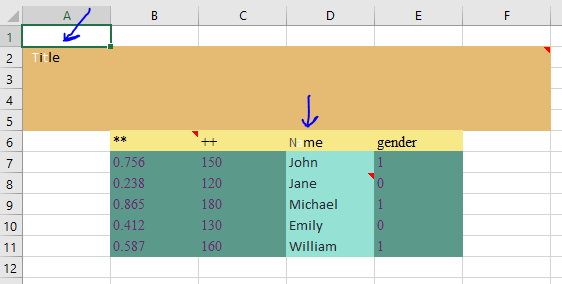
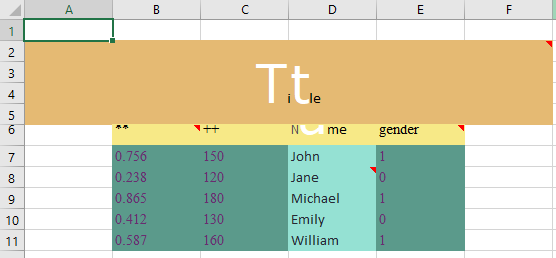
add new image

Changed region(s): [[0.0, 0.0, 1.0, 1.0]]

diff --git a/src/dataset/example.js b/src/dataset/example.js
@@ -338,6 +338,177 @@ Header should start with ${textDataC0.toUpperCase()}`,
     ...generateData()
   }
 })()
+export const ex15 = (() => {
+  function generateData() {
+    const t = { c4: '00ADB5', c2: '393E46' },
+      n = { alignment: { horizontal: 'left', vertical: 'center' } },
+      a = { fg: t.c2, fontFamily: 'Times New Roman', fontColor: '6A2C70', ...n },
+      l = { fg: t.c4, fontFamily: 'Times New Roman', fontColor: '#000000' }
+    return {
+      imageFullName: 'ex16.PNG',
+      colorPalette: t,
+      url: 'https://colorhunt.co/palette/f9ed69f08a5db83b5e6a2c70',
+      data: {
+        addDefaultTitleStyle: !0,
+        creator: 'mr',
+        styles: {
+          col2: {
+            fontColor: '#F9ED69'
+          },
+          col1: {
+            fontColor: '#FF2E63'
+          },
+          title: {
+            size: 48,
+            fg: 'F9ED69',
+            fontColor: '6A2C70',
+            alignment: { horizontal: 'center', vertical: 'center' }
+          },
+          t2: { fontColor: 'F08A5D' },
+          t1: { fontColor: '555555' },
+          'c0<0.3': { fg: 'DCD6F7', fontColor: '424874s', ...n },
+          male: { fg: '95E1D3', fontColor: '252A34', ...n },
+          female: { fg: 'F38181', fontColor: '252A34', ...n },
+          rowStyle: { ...a },
+          headerStyle: { ...l }
+        },
+        sheet: [
+          {
+            useSplitBaseOnMatch: true,
+            shiftTop: 1,
+            shiftLeft: 1,
+            title: {
+              comment: 'This is comment on table',
+              shiftTop: 1,
+              shiftLeft: -1,
+              consommeRow: 4,
+              consommeCol: 6,
+              multiStyleValue: {
+                '+': 't1',
+                '.': 't1',
+                '|': 't1',
+                '\\': 't1',
+                reg: [{ reg: /t/gi, styleId: 't2' }]
+              },
+              styleId: 'title',
+              text: 'Title 1'
+            },
+            multiStyleConditin: function (data, object, headerKey, rowIndex, colIndex, fromHeader) {
+              if (fromHeader) {
+                let charList = data.text.match(/./g)
+                let result = charList.reduce(
+                  (res, curr, index) => {
+                    try {
+                      new RegExp(curr)
+                    } catch (error) {
+                      curr = '\\' + curr
+                    }
+                    if (index % 2 == 0) {
+                      res.result.reg.push({
+                        reg: new RegExp('[' + curr + ']'),
+                        styleId: 'col1'
+                      })
+                      return res
+                    } else {
+                      res.result.reg.push({
+                        reg: new RegExp('[' + curr + ']'),
+                        styleId: 'col2'
+                      })
+                      return res
+                    }
+                  },
+                  { curr: '', result: { reg: [] } }
+                )
+                return result.result
+              } else {
+                let charList = data.match(/./g)
+                let result = charList.reduce(
+                  (res, curr, index) => {
+                    try {
+                      new RegExp(curr)
+                    } catch (error) {
+                      curr = '\\' + curr
+                    }
+                    if (index % 2 == 0) {
+                      res.result.reg.push({
+                        reg: new RegExp('[' + curr + ']'),
+                        styleId: 'col1'
+                      })
+                      return res
+                    } else {
+                      res.result.reg.push({
+                        reg: new RegExp('[' + curr + ']'),
+                        styleId: 'col2'
+                      })
+                      return res
+                    }
+                  },
+                  { curr: '', result: { reg: [] } }
+                )
+
+                return result.result
+              }
+            },
+            commentCodition: function (o, r, i, s, u, c) {
+              if ((console.log('called'), c)) {
+                let d = o.text.charAt(0)
+                if (d.toUpperCase() != d)
+                  return {
+                    comment: `
+Header should start with ${d.toUpperCase()}`,
+                    author: 'System'
+                  }
+              }
+              return !1
+            },
+            styleCellCondition(o, r, i, s, u) {
+              return u
+                ? 'headerStyle'
+                : i == 0 && o < 0.3
+                ? 'c0<0.3'
+                : i == 3
+                ? o
+                  ? 'male'
+                  : 'female'
+                : 'rowStyle'
+            },
+            headers: [
+              {
+                label: 'c1',
+                text: '**',
+                comment: { author: 'mr', comment: 'misspell in header' }
+              },
+              { label: 'c2', text: '++' },
+              {
+                label: 'c3',
+                text: 'Name',
+                multiStyleValue: { N: 't1', a: 't2' }
+              },
+              { label: 'c5', text: 'gender' }
+            ],
+            data: [
+              { c1: '0.756', c2: '150', c3: 'John', c5: '1' },
+              {
+                c1: '0.238',
+                c2: '120',
+                c3: 'Jane',
+                c5: '0',
+                comment: { c3: 'Comment on Jane' }
+              },
+              { c1: '0.865', c2: '180', c3: 'Michael', c5: '1' },
+              { c1: '0.412', c2: '130', c3: 'Emily', c5: '0' },
+              { c1: '0.587', c2: '160', c3: 'William', c5: '1' }
+            ]
+          }
+        ]
+      }
+    }
+  }
+  return {
+    str: generateData.toString(),
+    ...generateData()
+  }
+})()
 export const ex14 = (() => {
   function generateData() {
     const colorPalette = {
@@ -373,11 +544,12 @@ export const ex14 = (() => {
             size: 48,
             fg: 'E5BA73',
             alignment: {
-              horizontal: 'left',
-              vertical: 'top'
+              horizontal: 'center',
+              vertical: 'center'
             }
           },
           t2: {
+            size: 40,
             fontColor: 'FFFFFF'
           },
           t1: {
@@ -475,8 +647,8 @@ Header should start with ${textDataC0.toUpperCase()}`,
                 label: 'c3',
                 text: 'Name',
                 multiStyleValue: {
-                 "N":'t1',
-                 a:'t2'
+                  N: 't1',
+                  a: 't2'
                 }
               },
               { label: 'c5', text: 'gender' }
@@ -506,7 +678,6 @@ Header should start with ${textDataC0.toUpperCase()}`,
     ...generateData()
   }
 })()
-
 export const ex12 = (() => {
   return {
     imageFullName: 'ex12.PNG',

diff --git a/src/views/ExampleView.vue b/src/views/ExampleView.vue
@@ -150,6 +150,7 @@
     <h3 id="mstyle">Multi Style value Option</h3>
     <p>After version 2.4.0, We added Ability to change the style of each character of cells. (only text value)</p>
     <CodeSection :stringCode="codes.ex14" :type="'javascript'" :exampleObject="ex14"> </CodeSection>
+    <CodeSection :stringCode="codes.ex15" :type="'javascript'" :exampleObject="ex15"> </CodeSection>
     <h2 id="complex-options">Complex Options</h2>
     <p>
       In the examples below, we aim to define some fun scenarios that could be useful for more
@@ -186,7 +187,8 @@ import {
   ex11,
   ex12,
   ex13,
-  ex14
+  ex14,
+  ex15
 } from '../dataset/example'
 import { generateExample } from '../utils/generate'
 import { useSelectStore } from '@/stores/select'
@@ -207,7 +209,8 @@ let codes = reactive({
   ex11: '',
   ex12: '',
   ex13: '',
-  ex14: ''
+  ex14: '',
+  ex15:''
 })
 onMounted(async () => {
   codes.ex2 = await generateExample(ex2)
@@ -223,6 +226,7 @@ onMounted(async () => {
   codes.ex12 = await generateExample(ex12)
   codes.ex13 = await generateExample(ex13)
   codes.ex14 = await generateExample(ex14)
+  codes.ex15 = await generateExample(ex15)
 
   const idList = [
     'general-option',
